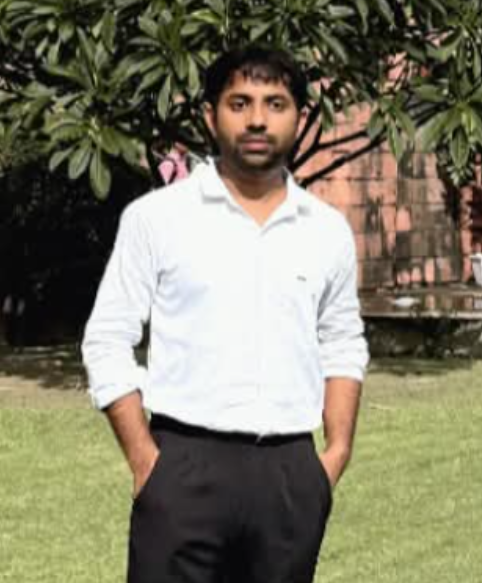
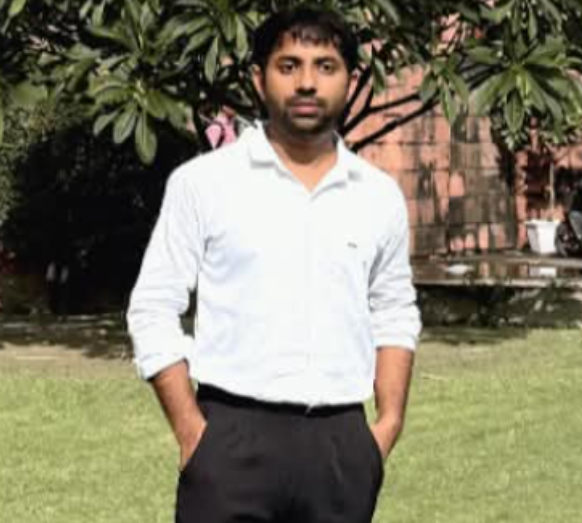
Update profile photo

diff --git a/index.html b/index.html
@@ -40,7 +40,7 @@
       <div class="hero-visual">
         <div class="portrait-glow"></div>
         <div class="portrait-frame">
-          <img src="assets/profile-black-shirt.png" alt="Portrait of Raj Patel" />
+          <img src="assets/profile.png" alt="Portrait of Raj Patel" />
         </div>
         <div class="floating-card card-top"><span class="float-icon">✦</span><div><strong>Curious builder</strong><small>Always learning</small></div></div>
         <div class="floating-card card-bottom"><span class="float-icon purple">⌘</span><div><strong>AI + Web</strong><small>My focus areas</small></div></div>
